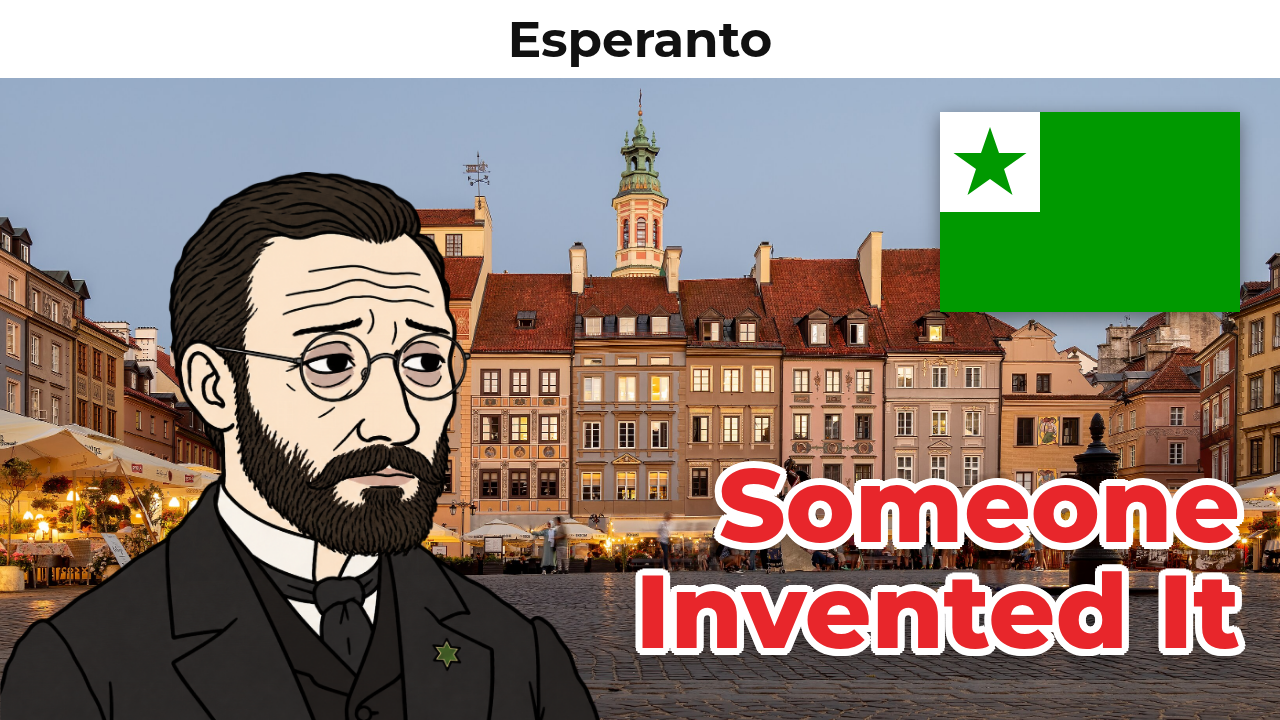
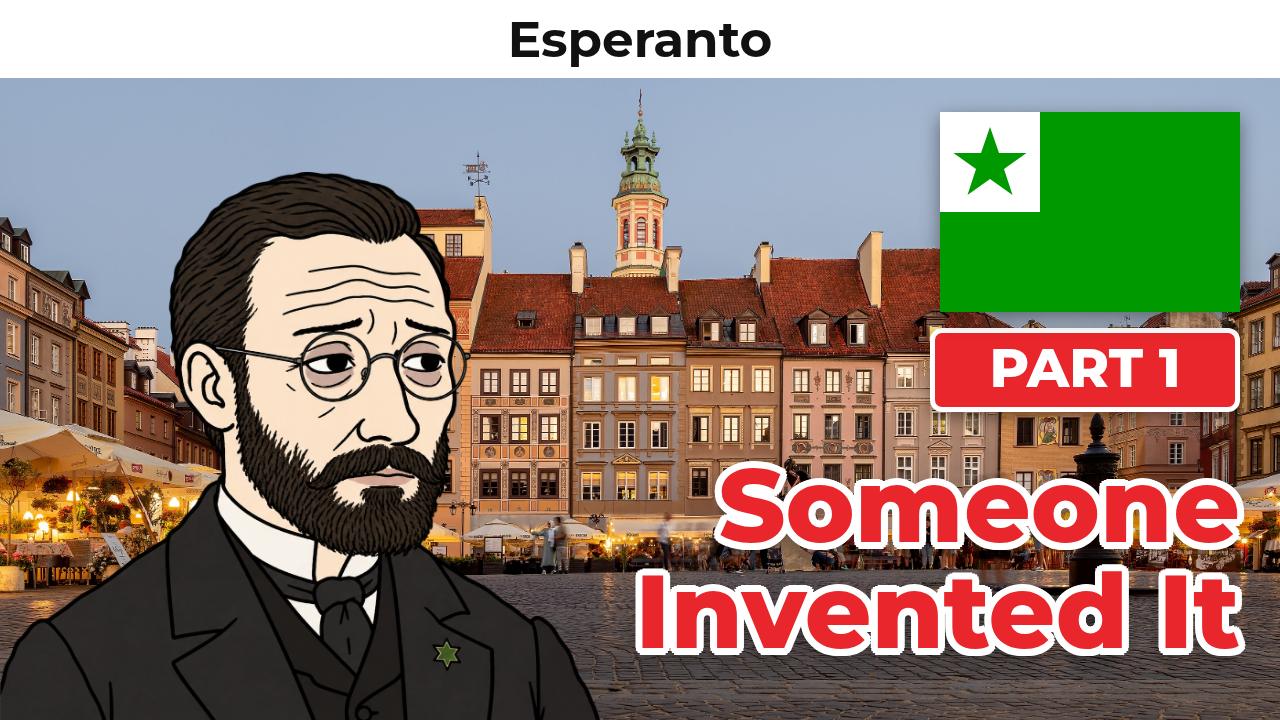
lingo: People Actually Speak These Made-Up Languages (Part 2) in the Part 1 story format (WIP), PART labels on both thumbnails
Claude-Session: https://claude.ai/code/session_01JteZbjgJzANfm9zkD8PK4e

Changed region(s): [[0.7188, 0.4583, 1.0, 0.6111]]

diff --git a/lingo/build_conlangs2.py b/lingo/build_conlangs2.py
@@ -1,0 +1,54 @@
+# Audio for "People Actually Speak These Made-Up Languages (Part 2)": python3 build_conlangs2.py
+# Sources are Commons mp3 transcodes in cache/conlangs2/src (the originals are throttled). Speech clips are cut from
+# `start` for the length of the segment and loudness-matched; Láadan is a sequence of single-word Lingua Libre
+# recordings (captioned on screen). Writes cache/audio/conlangs2/<slug>.wav, manifest.json and out/conlangs2_credits.txt.
+import json, os, subprocess, urllib.parse
+import fetch_audio as fa
+
+HERE = os.path.dirname(os.path.abspath(__file__))
+SRC = os.path.join(HERE, "cache", "conlangs2", "src")
+OUT = os.path.join(HERE, "cache", "audio", "conlangs2")
+os.makedirs(OUT, exist_ok=True)
+NEED = round(1.4 + 5.0 * 3 + 1.2, 2)  # story segment with 3 cards
+LDN_WORDS = ["Láadan", "osháana", "héeya", "lóolo", "shebasheb", "ramíili", "dóhin", "híya", "rahen", "mime"]
+CLIPS = {  # name: (source file, start, Commons title, author, licence)
+    "Interlingua": ("interlingua.mp3", 2.0, "Paises-del-mundo-195.ogg", "Hietjmo", "CC BY-SA 4.0"),
+    "Lingua Franca Nova": ("lfn2.mp3", 0.0, "Introdui1.ogg", "lingua-franca-nova.net", "GFDL, CC BY-SA 3.0"),
+    "Uropi": ("uropi.mp3", 0.0, "PontMirabo3.ogg", "Joël Landais, creator of Uropi", "public domain"),
+}
+page = lambda t: "https://commons.wikimedia.org/wiki/" + urllib.parse.quote("File:" + t.replace(" ", "_"))
+manifest, lines = {}, ["Audio credits (People Actually Speak These Made-Up Languages, Part 2)", ""]
+for name, (f, start, title, author, lic) in CLIPS.items():
+    src = os.path.join(SRC, f)
+    if not os.path.exists(src):
+        print(name, "missing", f); manifest[name] = None; continue
+    dst = os.path.join(OUT, fa.slug(name) + ".wav")
+    fa.to_wav(src, dst, start, NEED, extra=f"afade=t=in:d=0.3,afade=t=out:st={NEED - 0.8}:d=0.8,loudnorm=I=-18:TP=-2")
+    manifest[name] = {"sig": "conlangs2|" + name, "credits": [{"title": "File:" + title, "artist": author, "license": lic, "page": page(title)}], "captions": [], "start": start}
+    lines.append(f'{name}: "{title}" by {author}, {lic}, via Wikimedia Commons, {page(title)}')
+    print(name, NEED, "s from", start)
+# Láadan: single words, one after another, captioned
+parts, caps, t, credits = [], [], 0.6, []
+for w in LDN_WORDS:
+    src = os.path.join(SRC, f"ldn_{w}.mp3")
+    if not os.path.exists(src):
+        continue
+    p = os.path.join(OUT, f"ldn_{len(parts)}.wav")
+    fa.to_wav(src, p, extra="silenceremove=start_periods=1:start_threshold=-45dB,areverse,silenceremove=start_periods=1:start_threshold=-45dB,areverse")
+    d = fa.duration(p)
+    if t + d > NEED - 0.4:
+        break
+    caps.append({"t": round(t, 2), "d": round(d, 2), "text": w}); parts.append((t, p)); t += d + 0.9
+    title = f"LL-Q35757 (ldn)-Arlo Barnes-{w}.wav"
+    credits.append({"title": "File:" + title, "artist": "Arlo Barnes (Lingua Libre)", "license": "CC0", "page": page(title)})
+dst = os.path.join(OUT, fa.slug("Láadan") + ".wav")
+ins, filt = [], []
+for i, (st, p) in enumerate(parts):
+    ins += ["-i", p]; filt.append(f"[{i}]adelay={int(st * 1000)}|{int(st * 1000)}[a{i}]")
+filt.append("".join(f"[a{i}]" for i in range(len(parts))) + f"amix=inputs={len(parts)}:normalize=0,apad,atrim=0:{NEED},loudnorm=I=-18:TP=-2[o]")
+subprocess.run(["ffmpeg", "-v", "error", "-y", *ins, "-filter_complex", ";".join(filt), "-map", "[o]", "-ar", str(fa.SR), dst], check=True)
+manifest["Láadan"] = {"sig": "conlangs2|Láadan", "credits": credits, "captions": caps}
+lines.append("Láadan: single-word recordings (" + ", ".join(c["text"] for c in caps) + ") by Arlo Barnes, Lingua Libre, CC0, via Wikimedia Commons, https://commons.wikimedia.org/wiki/Category:Lingua_Libre_pronunciation-ldn")
+print("Láadan", len(caps), "words")
+json.dump(manifest, open(os.path.join(OUT, "manifest.json"), "w"), indent=1, ensure_ascii=False)
+open(os.path.join(HERE, "out", "conlangs2_credits.txt"), "w").write("\n".join(lines) + "\n")

diff --git a/CLAUDE.md b/CLAUDE.md
@@ -44,7 +44,7 @@ Owner's channel name: **LingoDude**. Six scripted 1080p videos in the "Nearly Ex
 ## Owner rules for these videos
 - Build **6 videos** around the same idea (keys in `lingo/videos.mjs`: extinct, niche, hardest, sounds, conlangs, revived; plus `soundlike` "Languages That Sound Like a Different Language", 2:38, done).
 - Topics must match the reference channel's style: meme-category titles ("X Languages be like…", rankings) + interesting
-  facts. No "Part 2" on the original six (they have no part 1). Exception: the AI-simulation series is a real series, "Extinct Languages Simulated by AI (Part 1)" is `ancient`; Part 2 (Lost empires) is `ancient2`, Part 3 (Medieval) is `ancient3`, Part 4 `ancient4`, Part 5 `ancient5` (follower requests), Part 6 `ancient6` (full sentences), all done. Thumbnails: `node thumb_ancient.mjs 1|2|3`. **Not** videos about one country or region (owner rejected "Italy's languages" and "Middle East").
+  facts. No "Part 2" on the original six (they have no part 1), except where the owner asks for one: "These Languages Break the Rules of Speech (Part 2)" (`rules2`, Part 1 is `sounds`) and "People Actually Speak These Made-Up Languages (Part 2)" (`conlangs2`, Part 1 is `conlangs`), both requested by the owner (2026-10-22/23). Exception: the AI-simulation series is a real series, "Extinct Languages Simulated by AI (Part 1)" is `ancient`; Part 2 (Lost empires) is `ancient2`, Part 3 (Medieval) is `ancient3`, Part 4 `ancient4`, Part 5 `ancient5` (follower requests), Part 6 `ancient6` (full sentences), all done. Thumbnails: `node thumb_ancient.mjs 1|2|3`. **Not** videos about one country or region (owner rejected "Italy's languages" and "Middle East").
 - **Only use sounds that were actually found**: real recordings from Wikimedia Commons. No synthesized speech or
   generated music. A language with no recording found gets replaced or dropped, never faked.
   Exception the owner asked for: `ancient` ("Extinct Languages Simulated by AI (Part 1)") uses Piper voices
